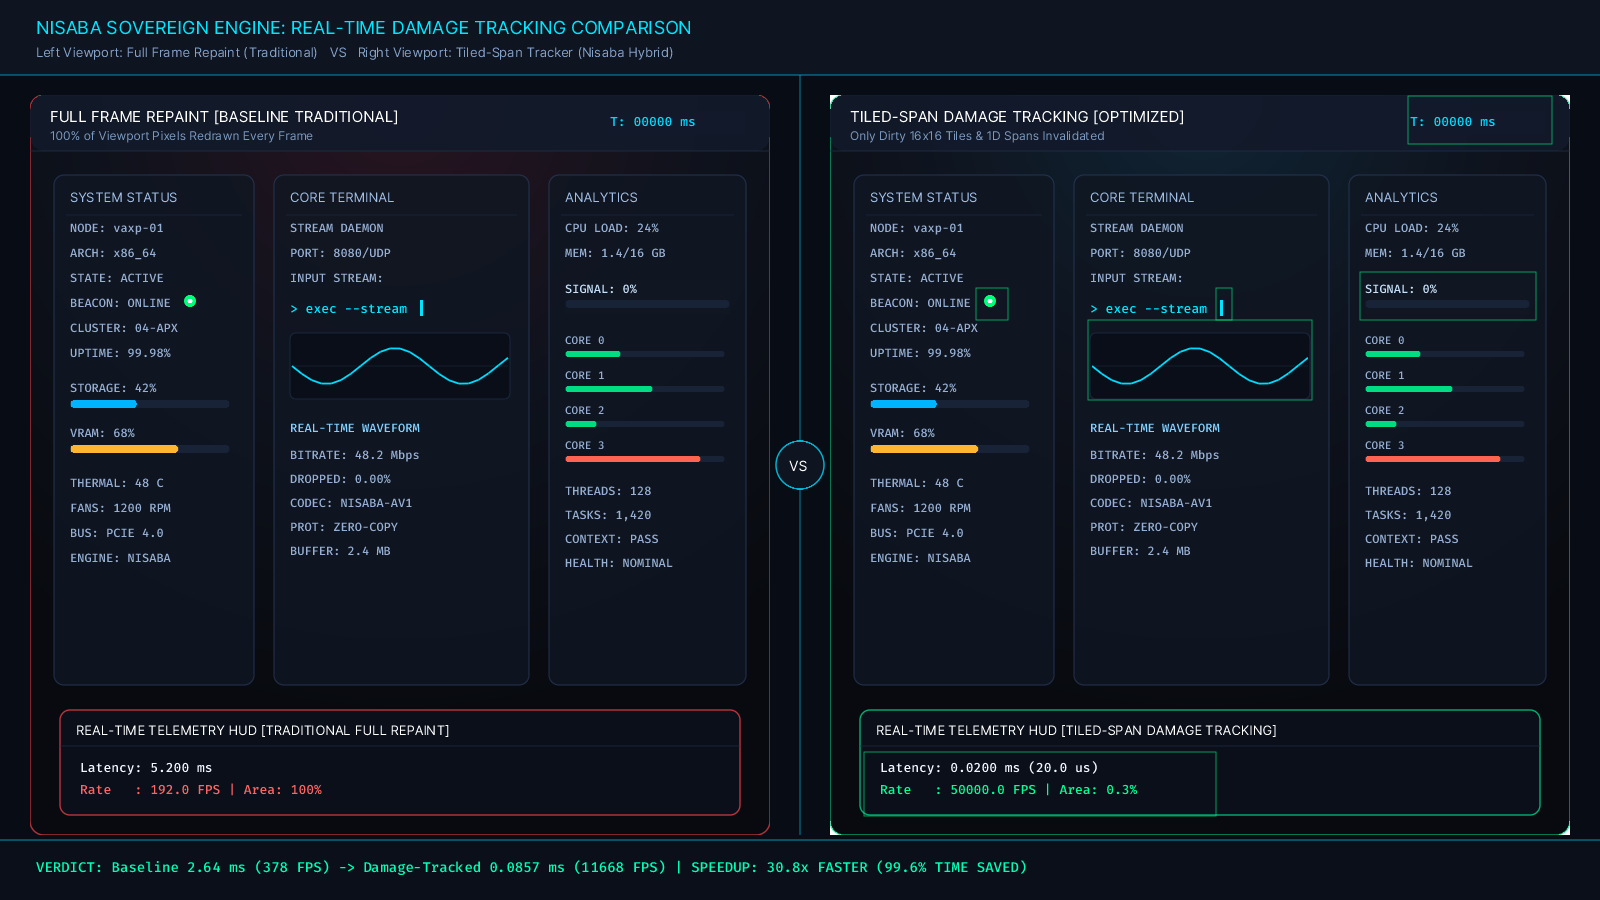
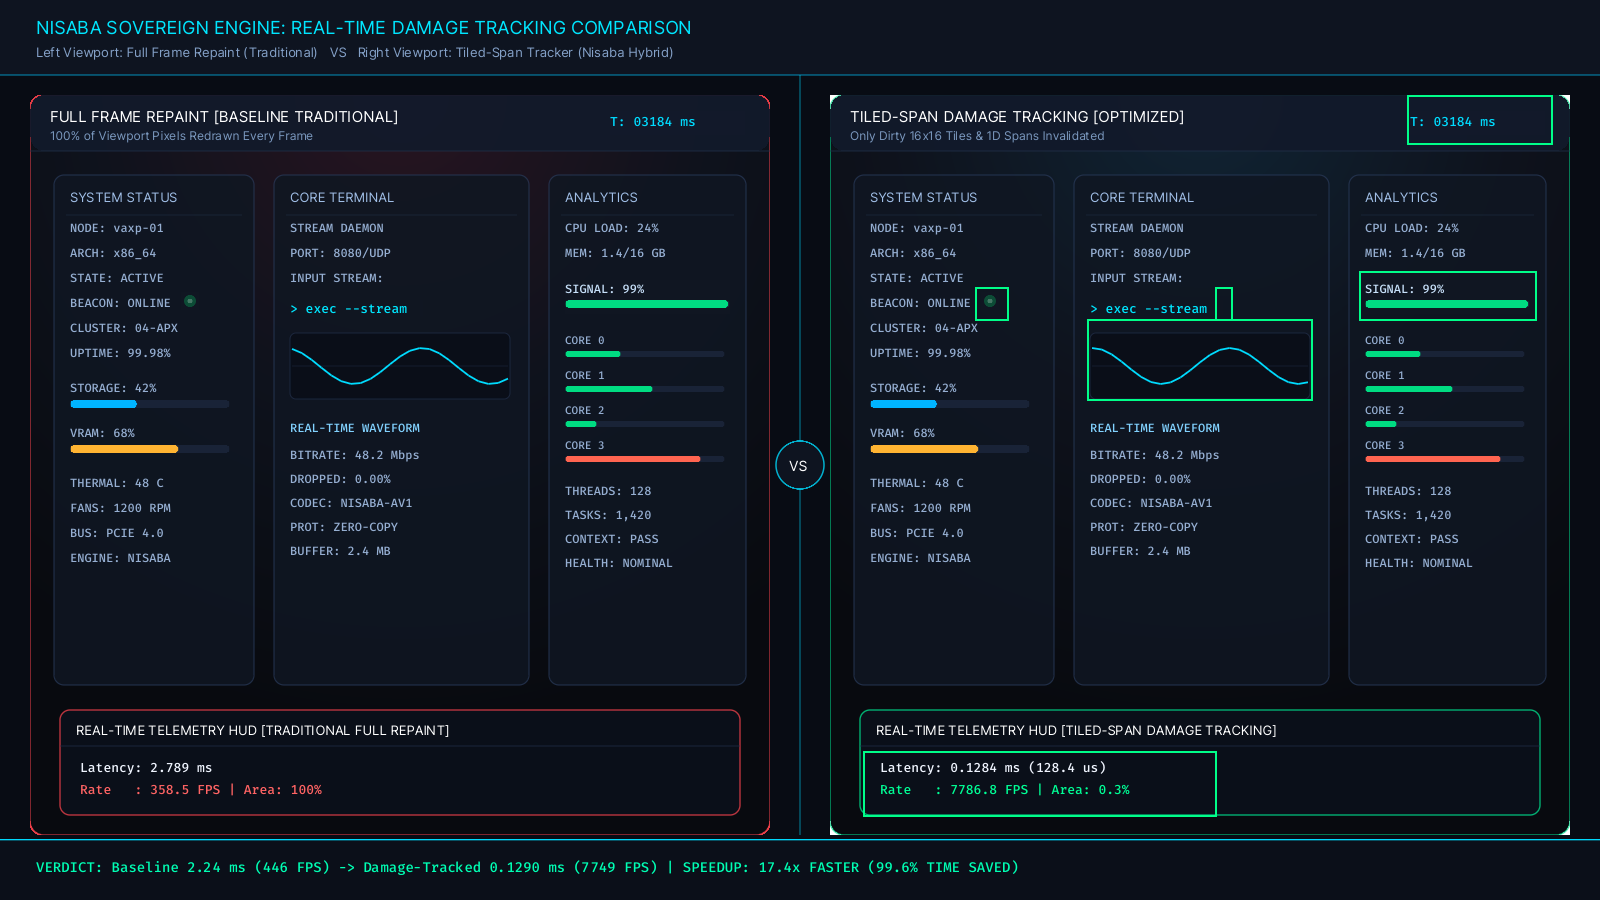
Preparing the VSPR layer

diff --git a/examples/showcase_pdf.cpp b/examples/showcase_pdf.cpp
@@ -9,7 +9,7 @@
 #include <cmath>
 
 #include "nisaba/nisaba.hpp"
-#include "nisaba/damage/damage.hpp"
+#include "nisaba/vspr/vspr.hpp"
 #include "nisaba/text/text_cache.hpp"
 #include "nisaba/pdf/pdf_reader.hpp"
 #include "nisaba/pdf/pdf_writer.hpp"
@@ -35,7 +35,7 @@
 
 using namespace nisaba;
 using namespace nisaba::pdf;
-using namespace nisaba::damage;
+using namespace nisaba::vspr;
 
 static std::string resolve_font_path(std::string_view font_name) {
     std::vector<std::string> candidates = {
@@ -286,7 +286,7 @@ static std::shared_ptr<Pixmap> g_studio_chrome_pixmap = nullptr;
 static std::shared_ptr<Pixmap> g_retained_page_surface = nullptr;
 static int g_retained_page = -1;
 static float g_retained_zoom = -1.0f;
-static damage::TiledSpanTracker<16> g_damage_tracker(1600, 1000);
+static vspr::TiledSpanTracker<16> g_damage_tracker(1600, 1000);
 static std::vector<ScreenIntRect> g_prev_dirty_rects;
 
 static void build_studio_chrome(

diff --git a/include/nisaba/vspr/tiled_span_tracker.hpp b/include/nisaba/vspr/tiled_span_tracker.hpp
@@ -6,10 +6,10 @@
 #include <optional>
 #include "nisaba/math/rect.hpp"
 #include "nisaba/math/screen_int_rect.hpp"
-#include "nisaba/damage/types.hpp"
-#include "nisaba/damage/micro_tile_grid.hpp"
+#include "nisaba/vspr/types.hpp"
+#include "nisaba/vspr/micro_tile_grid.hpp"
 
-namespace nisaba::damage {
+namespace nisaba::vspr {
 
 /// @brief Coordinates Tiled-Span Hybrid Damage Tracking.
 /// Merges 2D Micro-Tile bitmasks with 1D Scanline Spans and multi-buffer age accumulation.
@@ -228,4 +228,4 @@ private:
     std::vector<std::vector<ScreenIntRect>> history_;
 };
 
-} // namespace nisaba::damage
+} // namespace nisaba::vspr

diff --git a/include/nisaba/vspr/surface_cache.hpp b/include/nisaba/vspr/surface_cache.hpp
@@ -12,9 +12,9 @@
 #include "nisaba/canvas/canvas.hpp"
 #include "nisaba/math/rect.hpp"
 #include "nisaba/math/screen_int_rect.hpp"
-#include "nisaba/damage/types.hpp"
+#include "nisaba/vspr/types.hpp"
 
-namespace nisaba::damage {
+namespace nisaba::vspr {
 
 /// @brief Retained Surface / Sub-Tree / Page Backing-Store Cache.
 /// Provides zero-cost blitting for complex static views, pages, and dialogs.
@@ -213,4 +213,4 @@ private:
     std::unordered_map<std::string, SurfaceCache> caches_;
 };
 
-} // namespace nisaba::damage
+} // namespace nisaba::vspr

diff --git a/include/nisaba/vspr/adaptive_invalidator.hpp b/include/nisaba/vspr/adaptive_invalidator.hpp
@@ -7,10 +7,10 @@
 
 #include "nisaba/math/rect.hpp"
 #include "nisaba/math/screen_int_rect.hpp"
-#include "nisaba/damage/types.hpp"
-#include "nisaba/damage/tiled_span_tracker.hpp"
+#include "nisaba/vspr/types.hpp"
+#include "nisaba/vspr/tiled_span_tracker.hpp"
 
-namespace nisaba::damage {
+namespace nisaba::vspr {
 
 /// @brief Strategy selected by Adaptive Invalidation.
 enum class InvalidationStrategy : uint8_t {
@@ -139,4 +139,4 @@ private:
     std::vector<Rect> child_damages_;
 };
 
-} // namespace nisaba::damage
+} // namespace nisaba::vspr

diff --git a/include/nisaba/vspr/micro_tile_grid.hpp b/include/nisaba/vspr/micro_tile_grid.hpp
@@ -7,9 +7,9 @@
 #include <bit>
 #include "nisaba/math/rect.hpp"
 #include "nisaba/math/screen_int_rect.hpp"
-#include "nisaba/damage/types.hpp"
+#include "nisaba/vspr/types.hpp"
 
-namespace nisaba::damage {
+namespace nisaba::vspr {
 
 /// @brief High-performance spatial 2D micro-tile bitmask grid.
 /// Decomposes surface geometry into discrete Micro-Tiles (default 16x16 pixels)
@@ -145,4 +145,4 @@ private:
     std::vector<uint64_t> words_;
 };
 
-} // namespace nisaba::damage
+} // namespace nisaba::vspr

diff --git a/examples/example_damage_comparison.cpp b/examples/example_damage_comparison.cpp
@@ -16,7 +16,7 @@
 #include <memory>
 
 #include "nisaba/nisaba.hpp"
-#include "nisaba/damage/damage.hpp"
+#include "nisaba/vspr/vspr.hpp"
 
 #ifdef NISABA_HAS_BACKEND_OS
 #  include "nisaba/backend_os/platform.hpp"
@@ -32,7 +32,7 @@
 
 using namespace nisaba;
 using namespace nisaba::text;
-using namespace nisaba::damage;
+using namespace nisaba::vspr;
 
 // -----------------------------------------------------------------------------
 // Display Configuration Constants

diff --git a/examples/example_damage_comparison_software.cpp b/examples/example_damage_comparison_software.cpp
@@ -17,7 +17,7 @@
 #include <memory>
 
 #include "nisaba/nisaba.hpp"
-#include "nisaba/damage/damage.hpp"
+#include "nisaba/vspr/vspr.hpp"
 
 #ifdef NISABA_HAS_BACKEND_OS
 #  include "nisaba/backend_os/platform.hpp"
@@ -33,7 +33,7 @@
 
 using namespace nisaba;
 using namespace nisaba::text;
-using namespace nisaba::damage;
+using namespace nisaba::vspr;
 
 // -----------------------------------------------------------------------------
 // Display Configuration Constants

diff --git a/examples/example_damage_comparison_gpu.cpp b/examples/example_damage_comparison_gpu.cpp
@@ -21,7 +21,7 @@
 #include "nisaba/gpu/gpu_device.hpp"
 #include "nisaba/gpu/gpu_surface.hpp"
 #include "nisaba/gpu/gpu_canvas.hpp"
-#include "nisaba/damage/damage.hpp"
+#include "nisaba/vspr/vspr.hpp"
 
 #ifdef NISABA_HAS_BACKEND_OS
 #  include "nisaba/backend_os/platform.hpp"
@@ -36,7 +36,7 @@
 #endif
 
 using namespace nisaba;
-using namespace nisaba::damage;
+using namespace nisaba::vspr;
 
 using nisaba::gpu::GpuCanvas;
 using nisaba::gpu::GpuSurface;

diff --git a/include/nisaba/vspr/vspr.hpp b/include/nisaba/vspr/vspr.hpp
@@ -1,0 +1,13 @@
+#pragma once
+
+/// @file vspr.hpp
+/// @brief Nisaba Sovereign VSPR (VAXP Super Performance Render) Subsystem.
+
+#include "nisaba/vspr/types.hpp"
+#include "nisaba/vspr/micro_tile_grid.hpp"
+#include "nisaba/vspr/tiled_span_tracker.hpp"
+#include "nisaba/vspr/surface_cache.hpp"
+#include "nisaba/vspr/adaptive_invalidator.hpp"
+#include "nisaba/vspr/baked_animation.hpp"
+#include "nisaba/vspr/backdrop_blur_cache.hpp"
+

diff --git a/include/nisaba/vspr/types.hpp b/include/nisaba/vspr/types.hpp
@@ -6,7 +6,7 @@
 #include "nisaba/math/screen_int_rect.hpp"
 #include "nisaba/math/rect.hpp"
 
-namespace nisaba::damage {
+namespace nisaba::vspr {
 
 /// @brief Represents a single horizontal pixel span [x0, x1) on scanline y.
 struct Span {
@@ -36,4 +36,4 @@ struct DamageRegion {
     constexpr explicit DamageRegion(ScreenIntRect b) noexcept : bounds(b) {}
 };
 
-} // namespace nisaba::damage
+} // namespace nisaba::vspr

diff --git a/examples/example_embedded_hmi.cpp b/examples/example_embedded_hmi.cpp
@@ -13,7 +13,7 @@
 #include <algorithm>
 
 #include "nisaba/nisaba.hpp"
-#include "nisaba/damage/damage.hpp"
+#include "nisaba/vspr/vspr.hpp"
 #include "nisaba/effects/glass.hpp"
 #include "nisaba/pipeline/simd.hpp"
 
@@ -31,7 +31,7 @@
 
 using namespace nisaba;
 using namespace nisaba::text;
-using namespace nisaba::damage;
+using namespace nisaba::vspr;
 using namespace nisaba::effects;
 
 namespace {

diff --git a/examples/example_glass_benchmark.cpp b/examples/example_glass_benchmark.cpp
@@ -12,7 +12,7 @@
 #include <optional>
 
 #include "nisaba/nisaba.hpp"
-#include "nisaba/damage/damage.hpp"
+#include "nisaba/vspr/vspr.hpp"
 #include "nisaba/effects/glass.hpp"
 
 #ifdef NISABA_HAS_BACKEND_OS
@@ -22,7 +22,7 @@
 
 using namespace nisaba;
 using namespace nisaba::text;
-using namespace nisaba::damage;
+using namespace nisaba::vspr;
 using namespace nisaba::effects;
 
 namespace {
